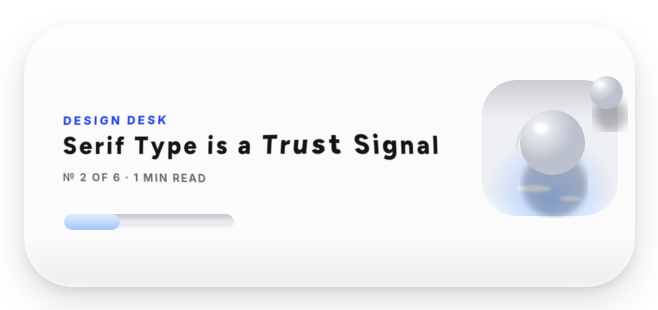
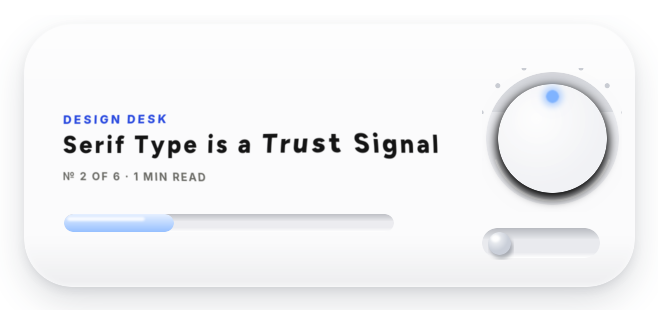
Clay preview v8: faithful copies of Cosmos refs - Milk knob, toggle, recessed slot w/ glass fill, tick dots

diff --git a/widget-preview-clay.html b/widget-preview-clay.html
@@ -17,8 +17,20 @@
   /* ---------- matte-white soft-UI parts ---------- */
   .slot{height:13px;border-radius:999px;background:#ECECF0;
     box-shadow:inset 0 2px 3px rgba(23,32,44,.16), inset 0 -1px 0 rgba(255,255,255,.9), 0 1px 0 rgba(255,255,255,.9)}
-  .pearl{border-radius:50%;background:radial-gradient(circle at 35% 28%, #FFFFFF 0%, #F4F6F8 45%, #DDE3EA 100%);
-    box-shadow:inset -3px -5px 8px rgba(148,158,178,.35), 0 8px 14px rgba(23,32,44,.20)}
+  .knob{position:relative;width:56px;height:56px;border-radius:50%;background:#ECEDF1;
+    box-shadow:inset 0 3px 5px rgba(23,32,44,.10), inset 0 -1.5px 0 rgba(255,255,255,.95)}
+  .knob i{position:absolute;inset:7px;border-radius:50%;background:#FCFCFD;
+    box-shadow:0 4px 7px rgba(23,32,44,.16), inset 0 6px 8px rgba(255,255,255,.9), inset 0 -6px 10px rgba(148,158,178,.12)}
+  .knob b{position:absolute;left:50%;top:11px;width:5px;height:5px;margin-left:-2.5px;border-radius:50%;background:#7FB3FF;
+    box-shadow:0 0 6px 2px rgba(127,179,255,.55)}
+  .toggle{position:relative;width:76px;height:30px;border-radius:999px;background:#E9EAEE;
+    box-shadow:inset 0 2px 4px rgba(23,32,44,.20), inset 0 -1px 0 rgba(255,255,255,.95)}
+  .toggle i{position:absolute;left:3px;top:2px;width:26px;height:26px;border-radius:50%;
+    background:radial-gradient(circle at 35% 28%, #FFFFFF 0%, #F4F6F8 50%, #E2E7EE 100%);
+    box-shadow:0 2px 4px rgba(23,32,44,.30)}
+  .ticks{display:flex;gap:7px;align-items:center}
+  .ticks b{width:6px;height:6px;border-radius:50%;background:#C9CCD3}
+  .ticks b.on{background:#93BEFF;box-shadow:0 0 5px 1px rgba(147,190,255,.6)}
   .track{position:relative;height:16px;border-radius:999px;background:#ECECF0;overflow:hidden;
     box-shadow:inset 0 2px 3px rgba(23,32,44,.18), 0 1px 0 rgba(255,255,255,.9)}
   .track i{position:absolute;left:0;top:0;bottom:0;border-radius:999px;
@@ -37,16 +49,18 @@
   .r-eyebrow{font:800 10px Inter;letter-spacing:.22em;text-transform:uppercase;color:#2B4BE0;margin-bottom:10px}
   .r-title{font:800 24px/1.15 Figtree,sans-serif;color:#141414;margin-bottom:6px}
   .r-meta{font:700 10px Inter;letter-spacing:.16em;text-transform:uppercase;color:#6B6B66;margin-bottom:16px}
-  .r-pearl{width:34px;height:34px;margin:2px 2px 0 0}
+  .r-head .knob{flex:none;margin-top:2px}
   .r-plate{border-radius:22px;overflow:hidden;box-shadow:0 12px 24px rgba(42,50,64,.12), inset 0 1px 0 rgba(255,255,255,.6);margin-bottom:18px}
   .r-plate img{display:block;width:100%;height:auto}
   .r-deck{font-style:italic;font-size:15.5px;line-height:1.5;color:#54544F;margin-bottom:16px}
   .r-body{font-size:15px;line-height:1.66;text-align:justify;hyphens:auto;color:#141414}
   .r-why{
     margin-top:20px;border-radius:20px;padding:14px 16px;font-size:13.5px;line-height:1.6;
-    background:linear-gradient(165deg, rgba(190,215,255,.55), rgba(147,190,255,.30));
-    box-shadow:inset 0 1.5px 2px rgba(255,255,255,.85), inset 0 -4px 8px rgba(43,75,224,.08), 0 8px 18px rgba(42,50,64,.08);
+    background:linear-gradient(165deg, rgba(190,215,255,.65), rgba(147,190,255,.35));
+    box-shadow:inset 0 1.5px 2px rgba(255,255,255,.9), inset 0 -4px 8px rgba(43,75,224,.10), 0 8px 18px rgba(42,50,64,.08);
+    position:relative;overflow:hidden
   }
+  .r-why:before{content:"";position:absolute;left:14px;right:40%;top:5px;height:3px;border-radius:3px;background:rgba(255,255,255,.85);filter:blur(1px)}
   .r-why span{display:block;font:800 8px Inter;letter-spacing:.22em;text-transform:uppercase;color:#2B4BE0;margin-bottom:5px}
   .r-src{margin:18px 2px 0;font:500 10.5px Inter;color:#6B6B66}
   .r-src a{color:#141414;text-decoration-color:#E8480C;text-underline-offset:3px}
@@ -67,7 +81,7 @@
 
 <div class="wrap">
   <div class="label">Home-screen widget (medium)</div>
-  <div class="widget"><img src="img/clay-face-medium.png?v=7" alt="Clay widget face"></div>
+  <div class="widget"><img src="img/clay-face-medium.png?v=8" alt="Clay widget face"></div>
 </div>
 </div>
 
@@ -80,7 +94,7 @@
           <div class="r-eyebrow">Design Desk</div>
           <div class="r-title">Serif Type is a Trust Signal</div>
         </div>
-        <div class="pearl r-pearl"></div>
+        <div class="knob"><i></i><b></b></div>
       </div>
       <div class="r-meta">№ 2 of 6 &middot; 1 min read</div>
       <div class="slot" style="margin:0 0 20px"></div>
@@ -90,10 +104,10 @@
       <div class="r-why"><span>Why it matters</span>Most designs that look generated fail on typography, not colour. Locking a two-font system is the fastest way to make your work look art-directed.</div>
       <p class="r-src">Filed from <a href="#">Practical Typography, Matthew Butterick</a> ↗</p>
       <div class="r-tickrow">
-        <a class="r-tick" href="#"><span class="r-box"></span>Mark as read</a>
+        <span style="display:flex;align-items:center;gap:12px"><span class="toggle"><i></i></span><span style="font:800 11px Inter;letter-spacing:.16em;text-transform:uppercase;color:#141414">Mark as read</span></span>
         <span class="r-folio">№ <b>2</b> / 6</span>
       </div>
-      <div class="track" style="margin-top:22px"><i style="width:33%"></i></div>
+      <div class="ticks" style="margin-top:22px;justify-content:center"><b class="on"></b><b class="on"></b><b></b><b></b><b></b><b></b></div>
     </div>
   </div>
 </div>
